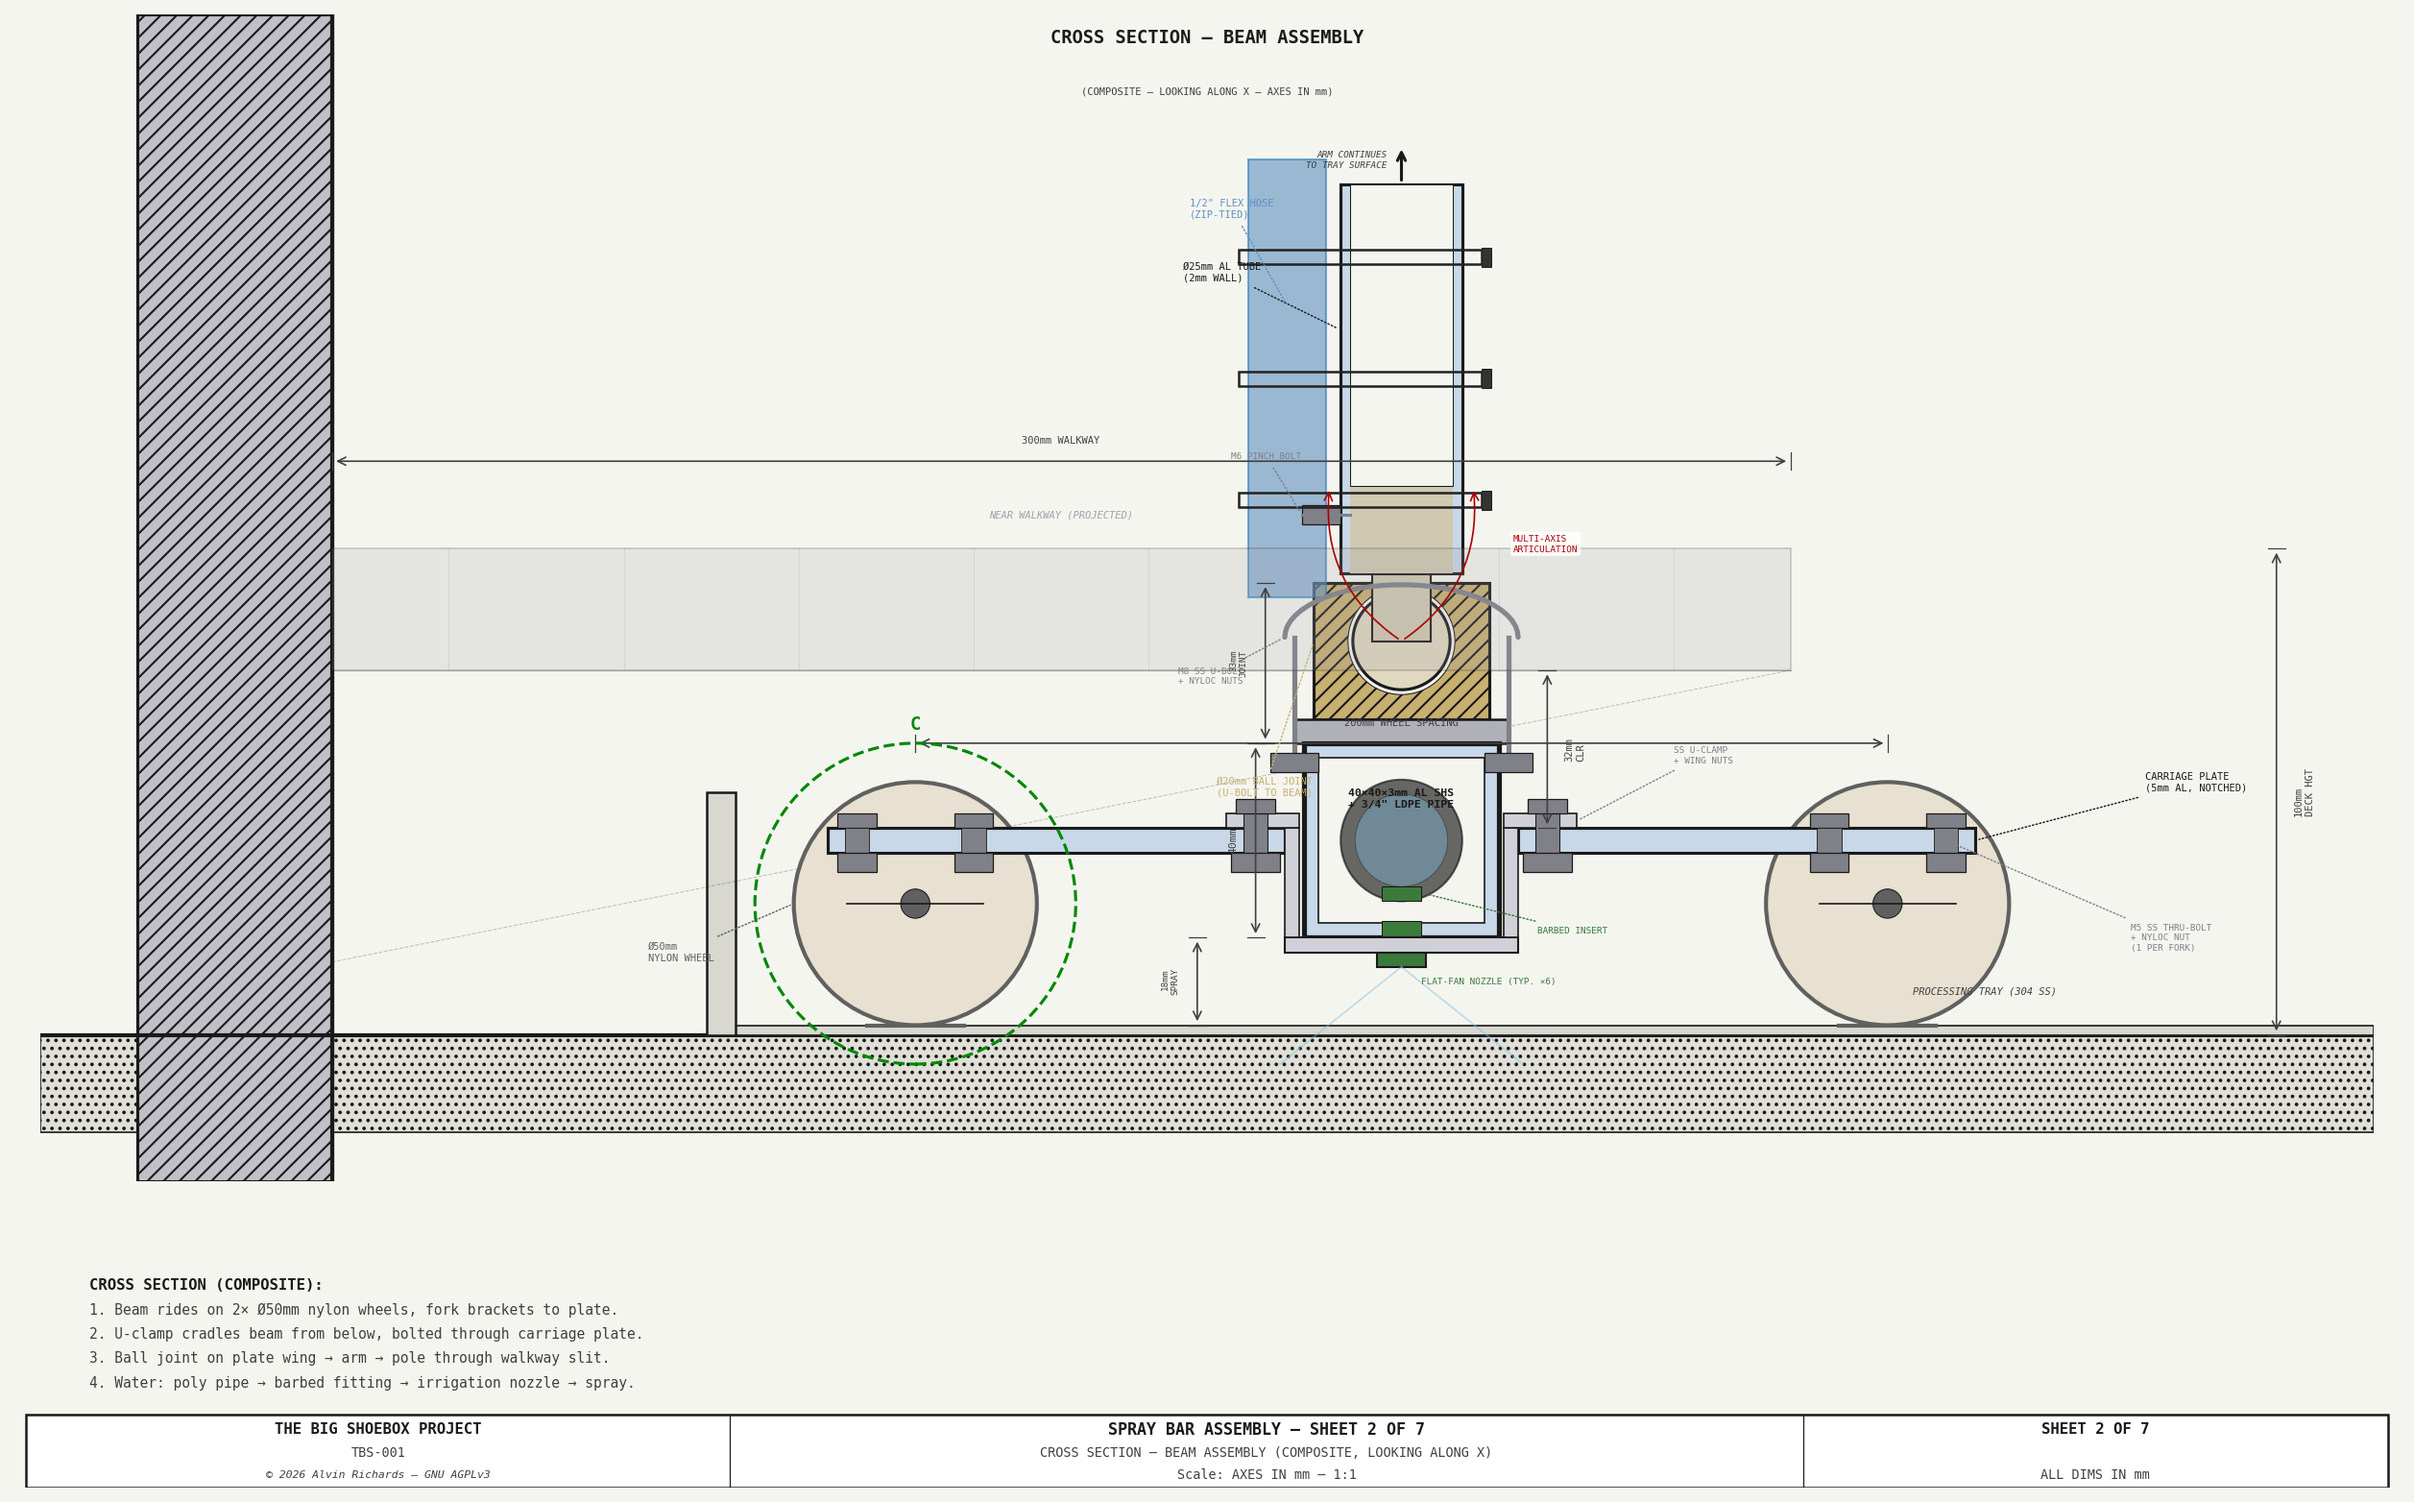
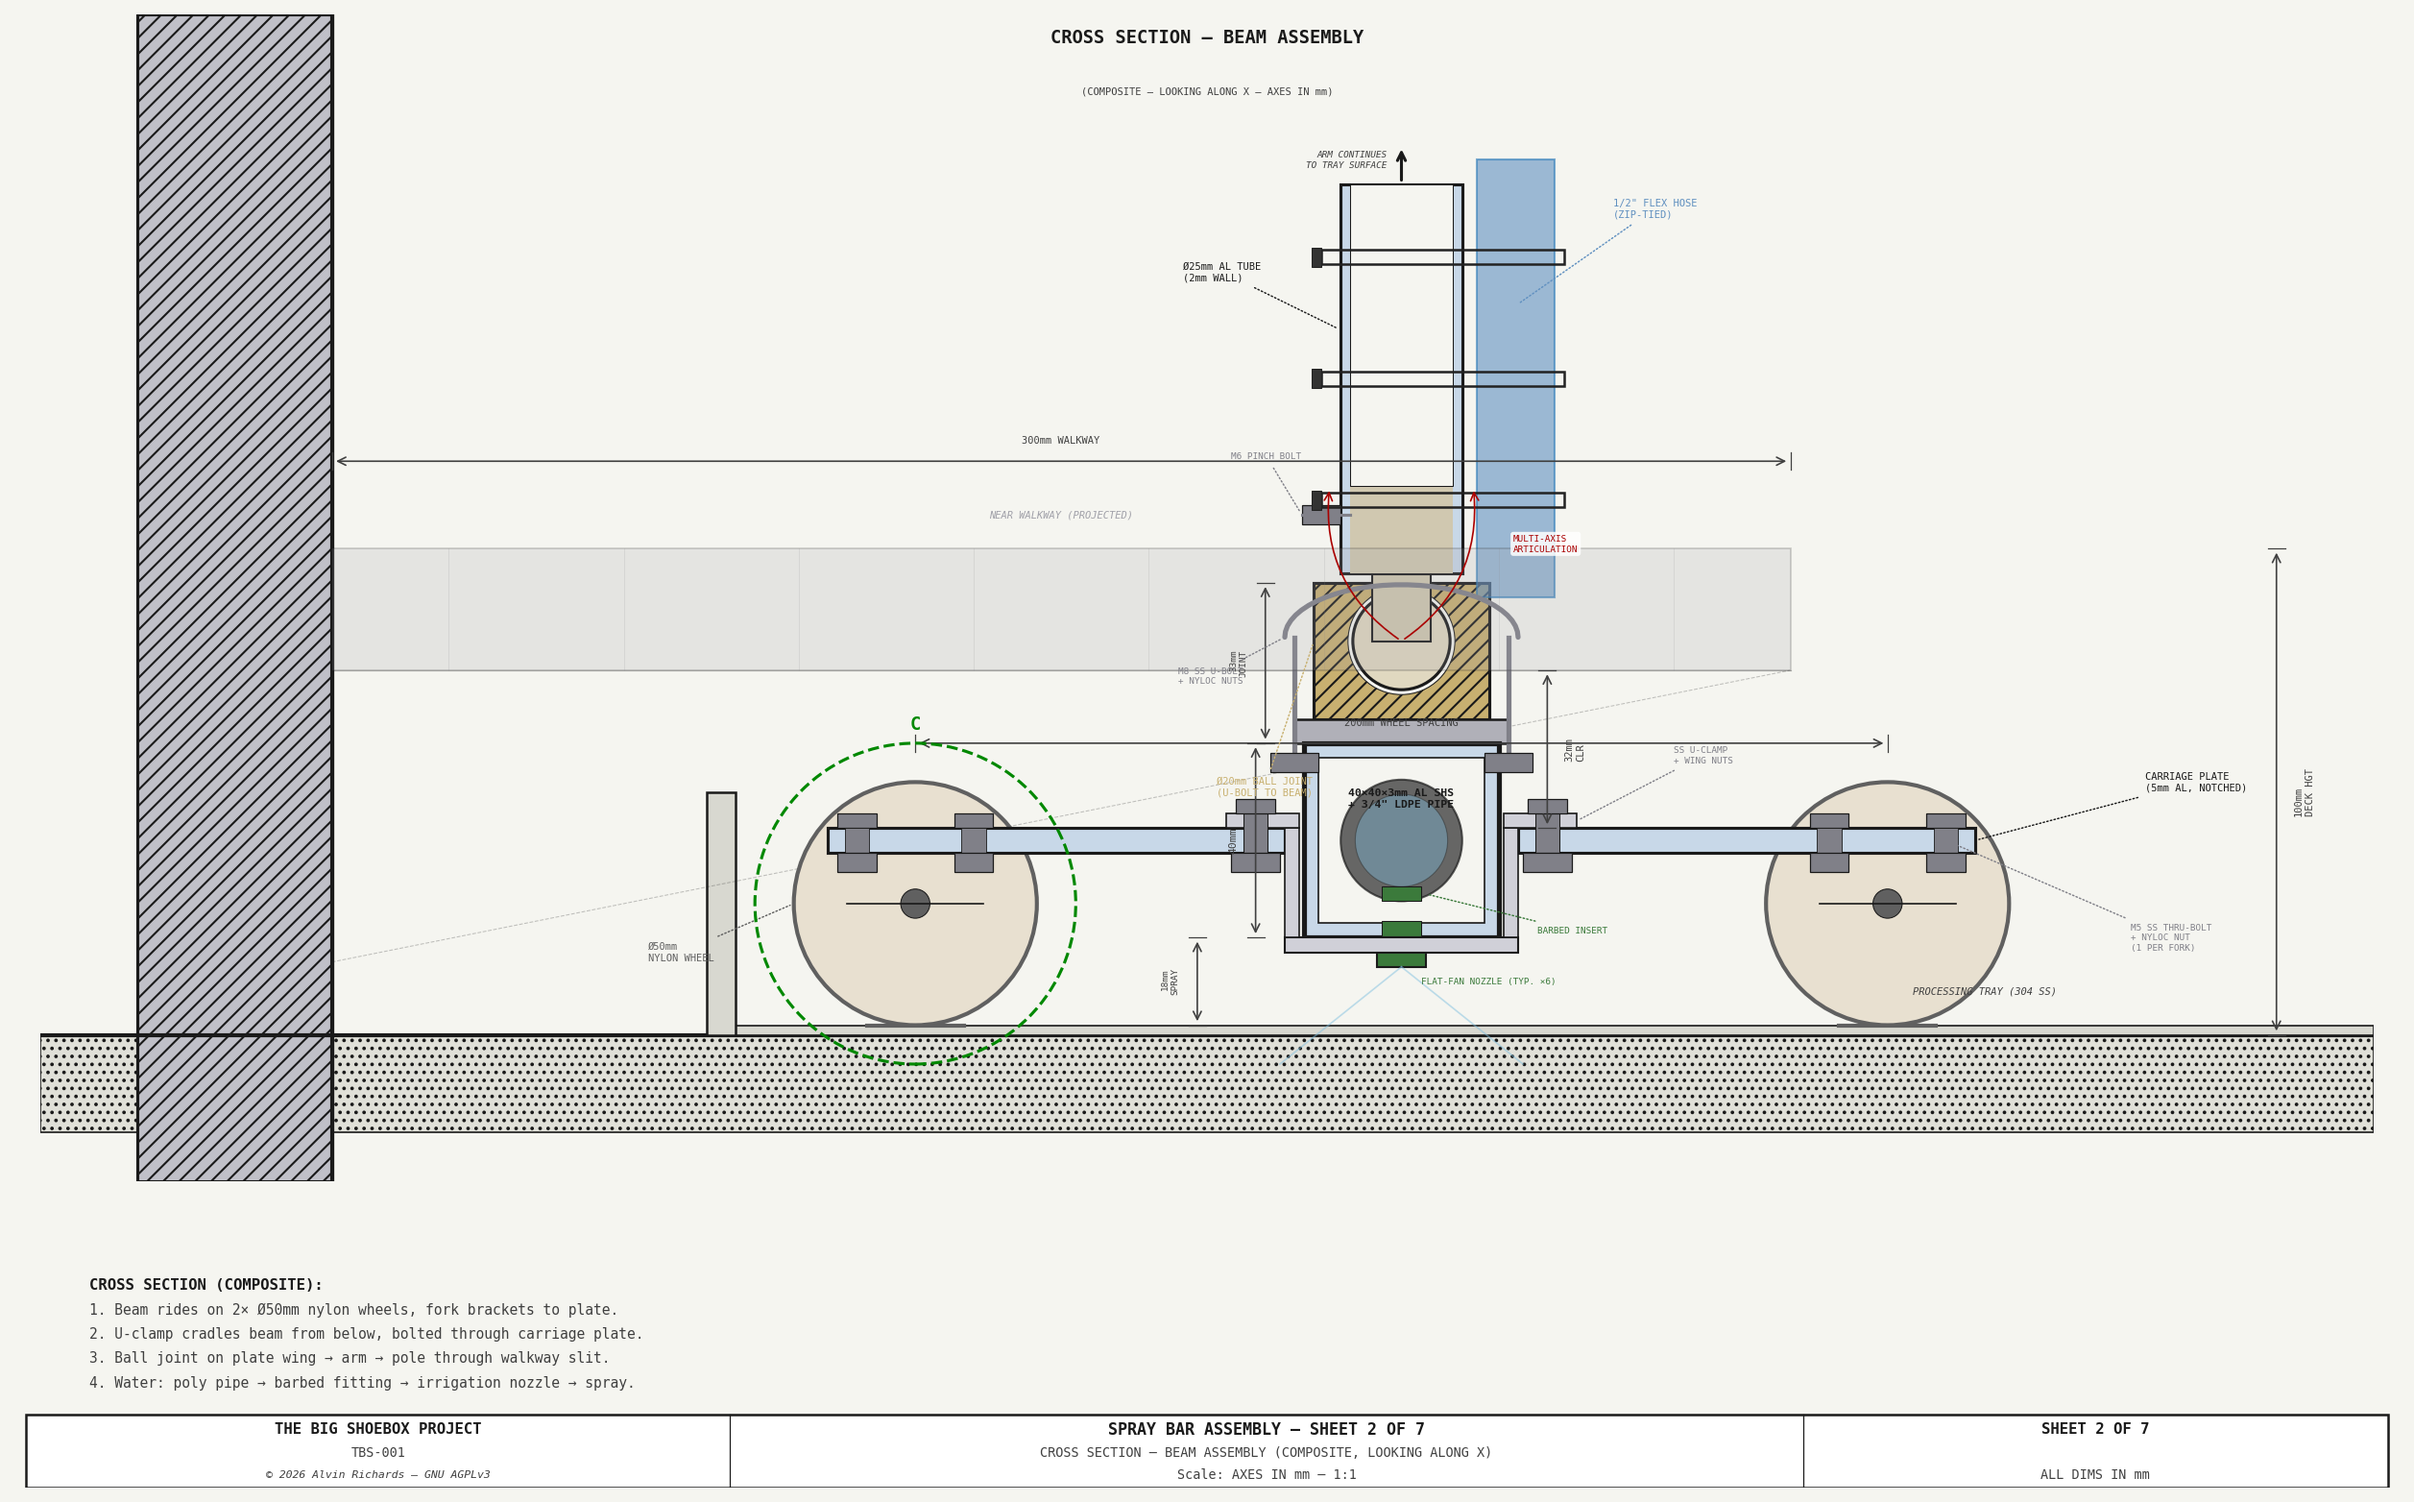
Sheet 2: move water hose from left to right side of pole

Changed region(s): [[0.5895, 0.0921, 0.6516, 0.399], [0.4964, 0.0921, 0.5585, 0.399]]

diff --git a/generate_spray_bar_diagram.py b/generate_spray_bar_diagram.py
@@ -809,18 +809,18 @@ def draw_sheet2():
 
     # ── Water hose zip-tied to arm ───────────────────────────────────────
     hose_od = 16
-    hose_ctr_yd = bj_yd - ARM_OD / 2 - hose_od / 2 - 3
+    hose_ctr_yd = bj_yd + ARM_OD / 2 + hose_od / 2 + 3
 
     ax2.add_patch(Rectangle((hose_ctr_yd - hose_od / 2, arm_base_z_bj - 5),
                   hose_od, arm_top_z_bj - arm_base_z_bj + 10,
                   fc=C_HOSE, ec=C_BLUE, lw=1.0, alpha=0.6, zorder=7.5))
 
     for zt_z in [arm_base_z_bj + 15, arm_base_z_bj + 40, arm_base_z_bj + 65]:
-        zt_l = hose_ctr_yd - hose_od / 2 - 2
-        zt_r = bj_yd + ARM_OD / 2 + 4
+        zt_l = bj_yd - ARM_OD / 2 - 4
+        zt_r = hose_ctr_yd + hose_od / 2 + 2
         ax2.add_patch(Rectangle((zt_l, zt_z - 1.5), zt_r - zt_l, 3,
                      fc="none", ec="#222222", lw=1.2, zorder=11))
-        ax2.add_patch(Rectangle((zt_r, zt_z - 2), 2, 4,
+        ax2.add_patch(Rectangle((zt_l - 2, zt_z - 2), 2, 4,
                      fc="#333333", ec="#222222", lw=0.5, zorder=11))
 
     # ── Labels ───────────────────────────────────────────────────────────
@@ -845,7 +845,7 @@ def draw_sheet2():
            fs=5, color=C_FRAME, font=FONT, zorder=20)
 
     leader(ax2, hose_ctr_yd, arm_base_z_bj + 55,
-           hose_ctr_yd - 20, arm_base_z_bj + 75,
+           hose_ctr_yd + 20, arm_base_z_bj + 75,
            "1/2\" FLEX HOSE\n(ZIP-TIED)",
            fs=5, color=C_HOSE, font=FONT, zorder=20)
 
